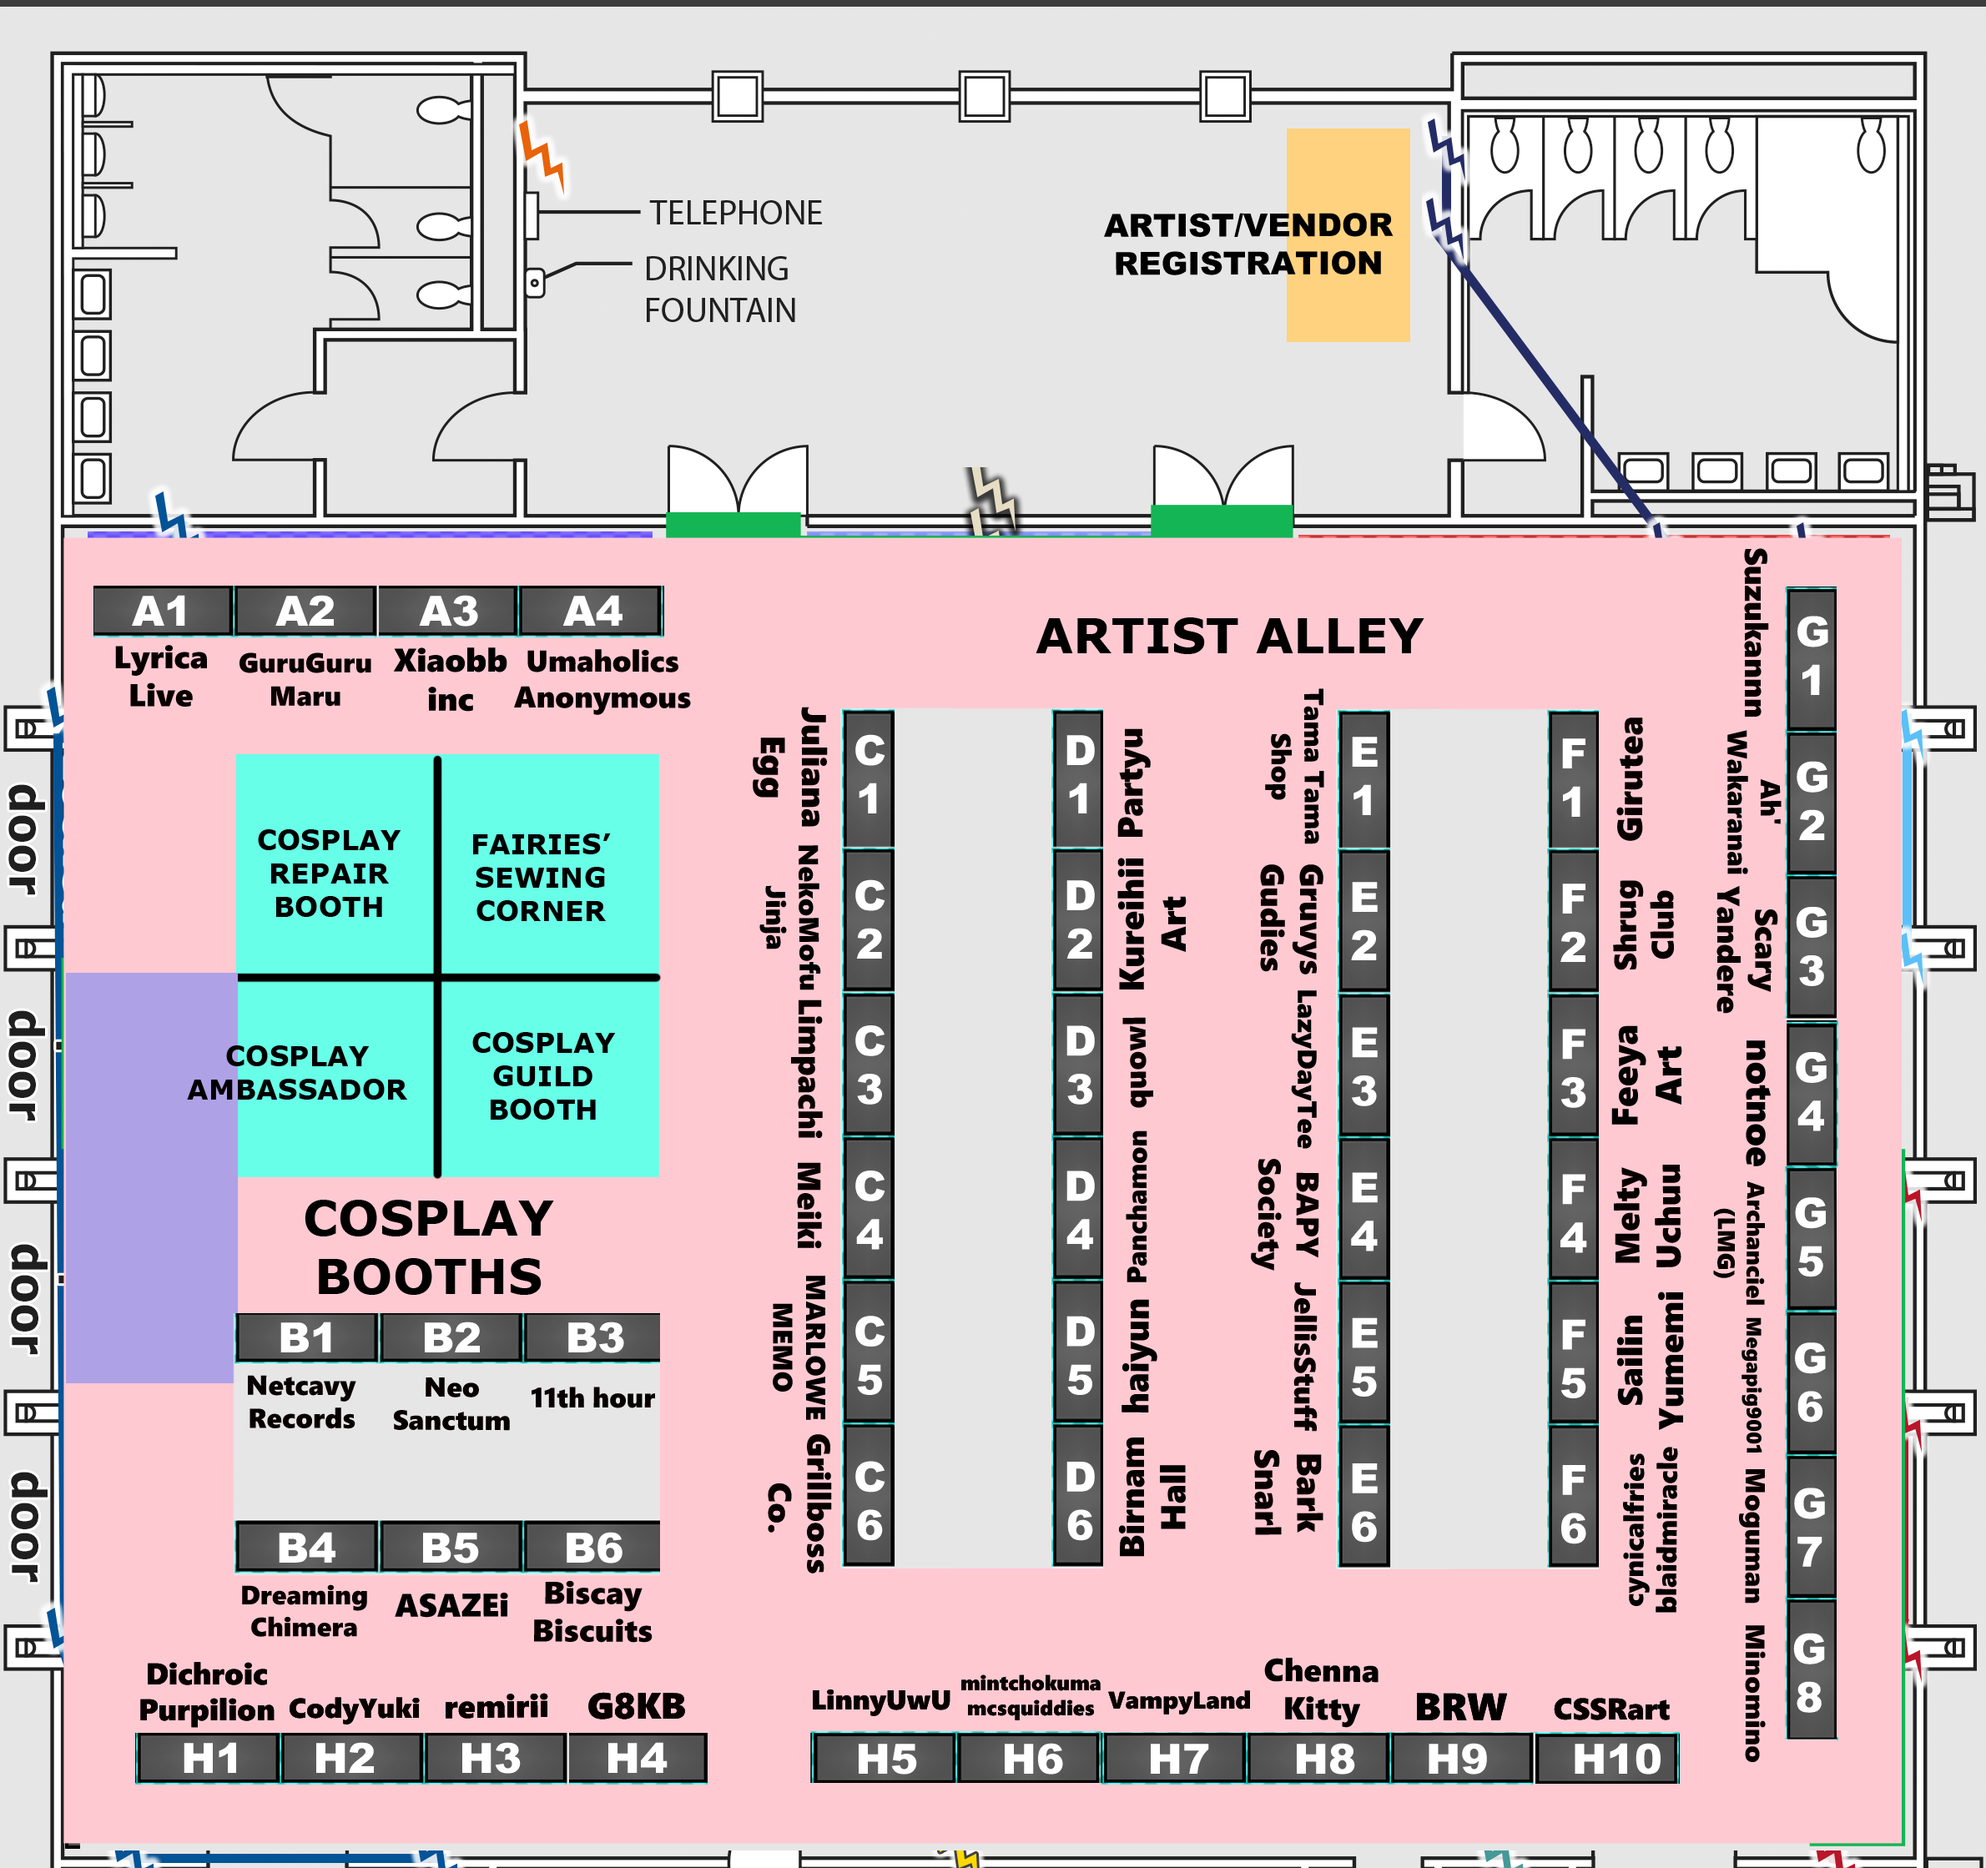
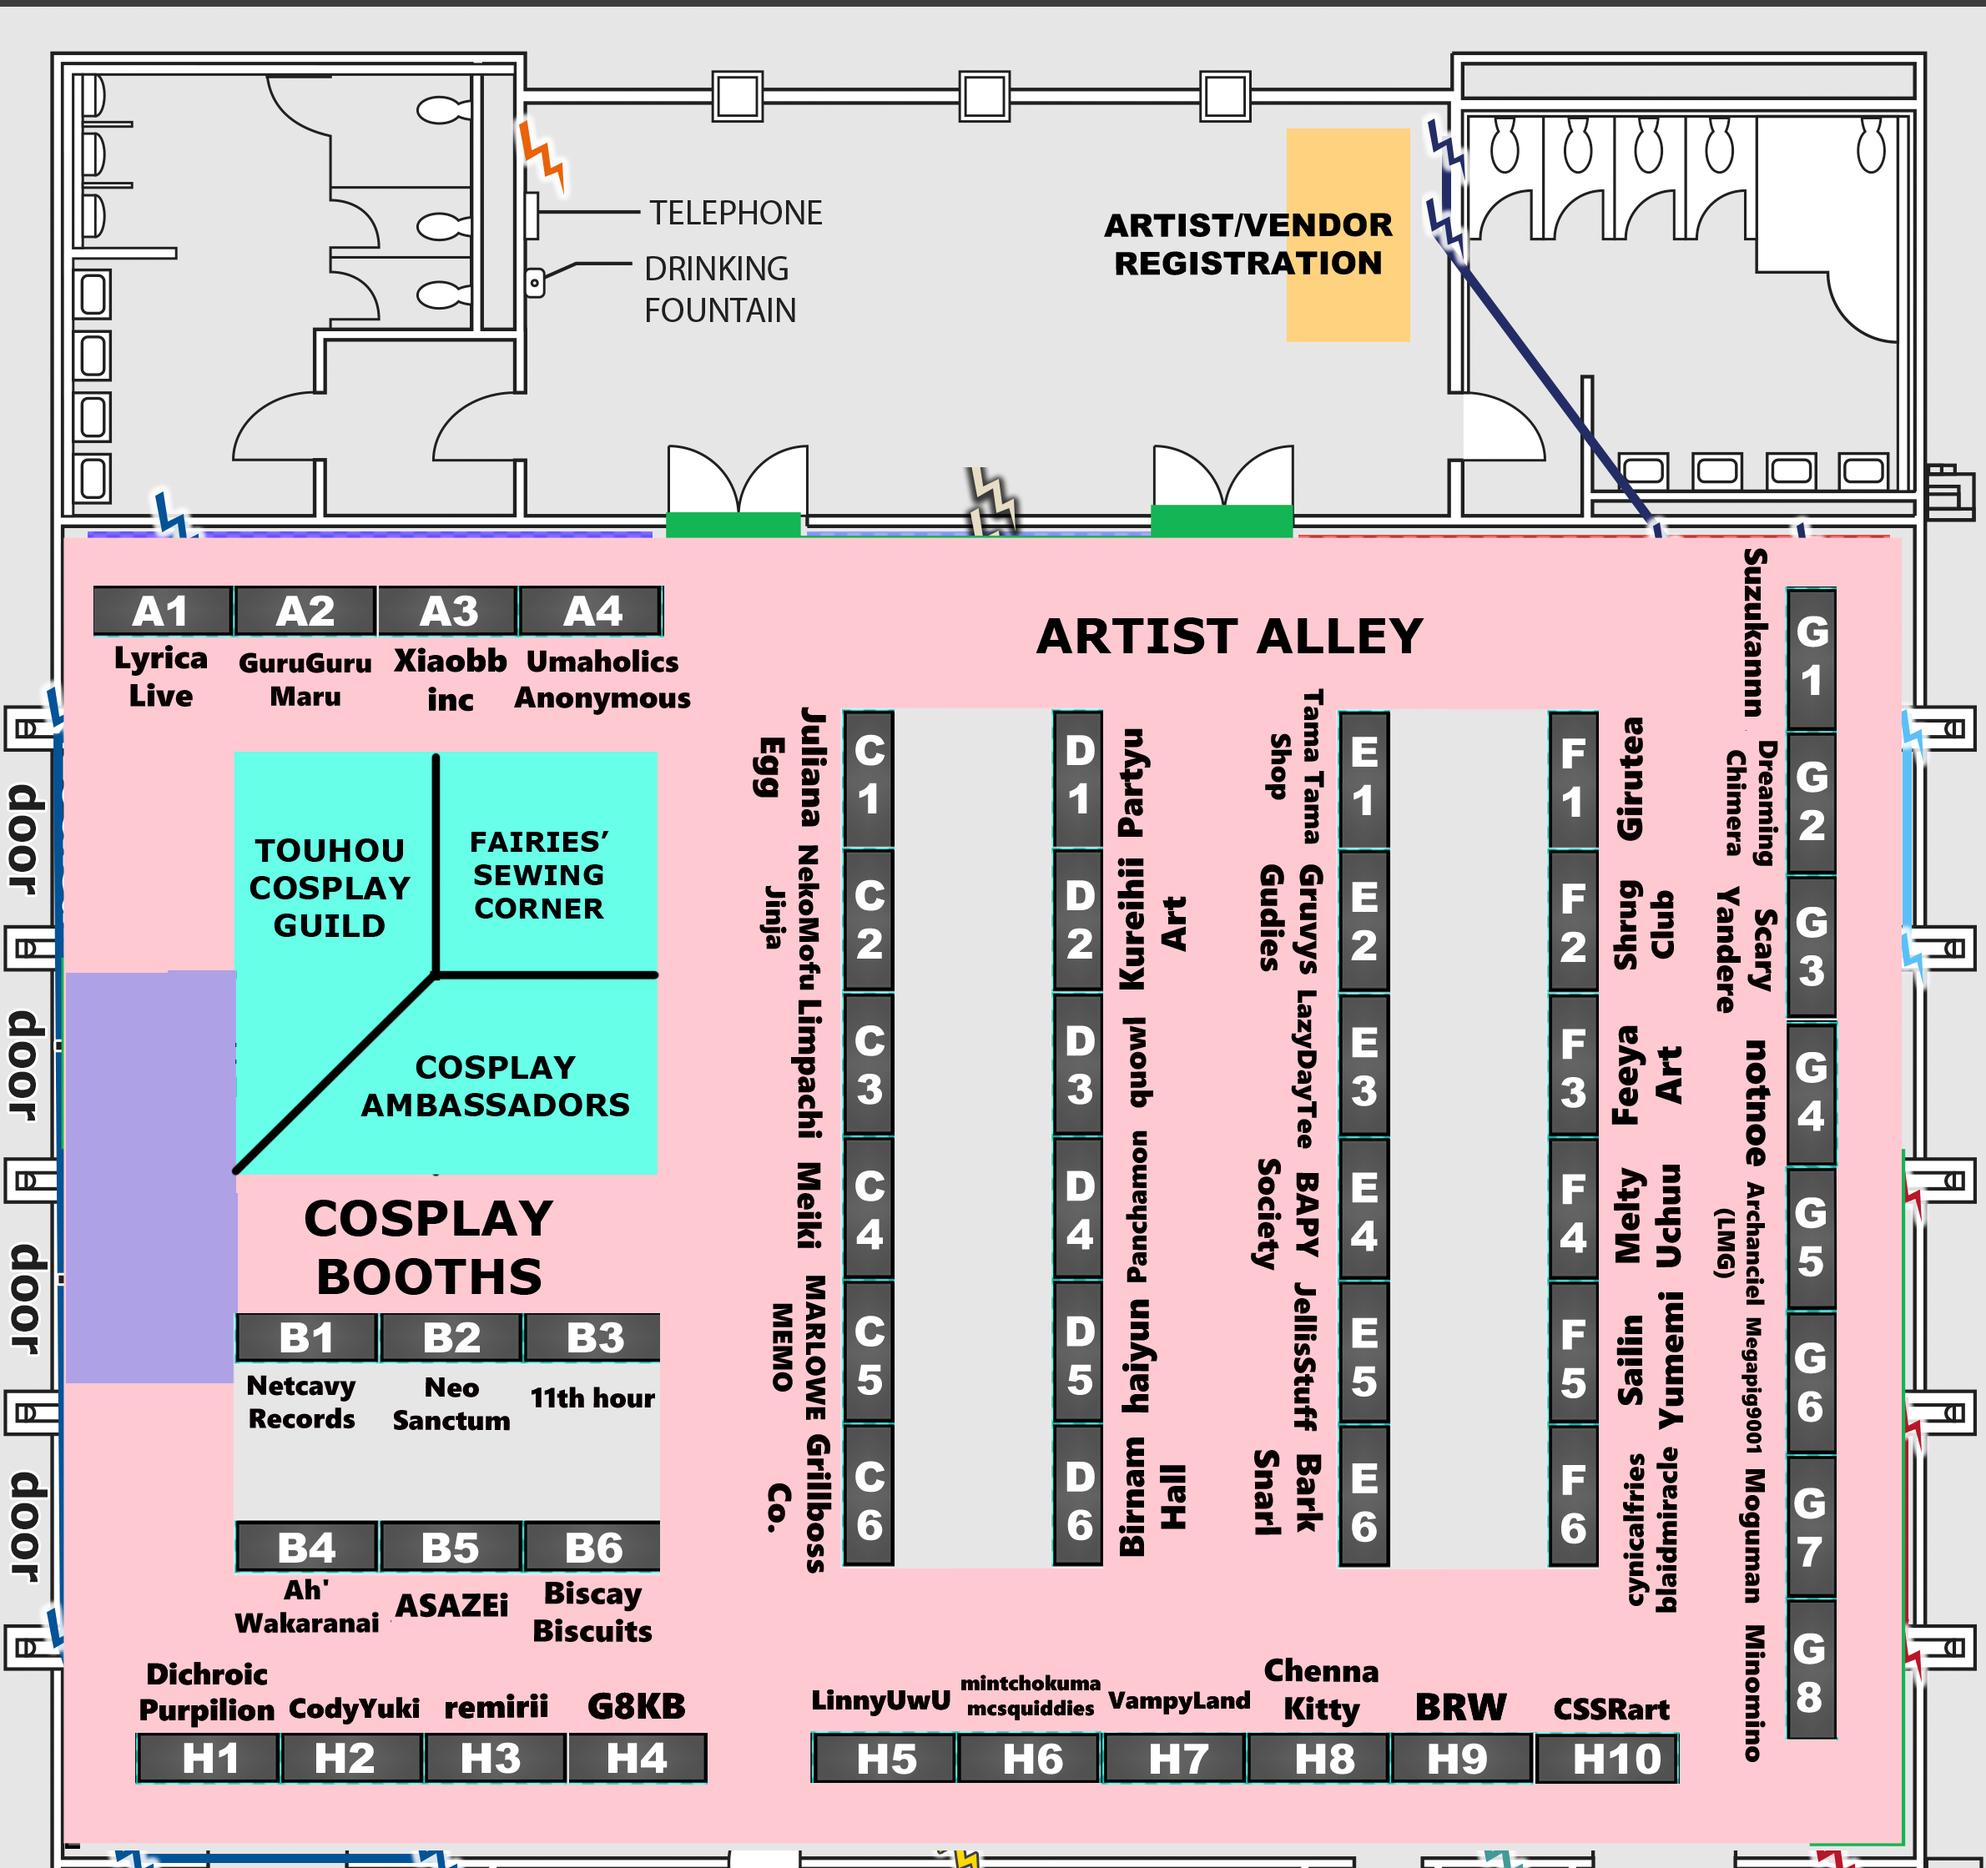
#244

Changed region(s): [[0.0933, 0.4006, 0.3109, 0.6472], [0.1244, 0.8321, 0.1866, 0.8937], [0.8706, 0.3698, 0.9017, 0.4623]]

diff --git a/src/menupages/ArtistVendors.tsx b/src/menupages/ArtistVendors.tsx
@@ -114,18 +114,16 @@ let artistlist = [
 {"name": "Netcavy Records", "image": netcavy, "location": "Booth B1", "website": "https://netcavy.net/portfolio", "description": ""},
 {"name": "Neo Sanctum", "image": neosanctum, "location": "Booth B2", "website": "https://x.com/NSanctum", "description": ""},
 {"name": "11th hour", "image": crescentia, "location": "Booth B3", "website": "https://crescentia.bandcamp.com/album/touhou-orchestral-suite-grand-fantasy", "description": ""},
-{"name": "Dreaming Chimera", "image": dreamingchimera, "location": "Booth B4", "website": "https://dreamingchimera.carrd.co/", "description": ""},
+// fix
+{"name": <>Ah'Wakara&shy;nai</>, "image": ahwakanarai, "location": "Booth B4", "website": "https://x.com/SWatanabe_yo", "description": ""},
+
 {"name": "ASAZEi", "image": asazei, "location": "Booth B5", "website": "https://x.com/ASAZEi_art", "description": ""},
 {"name": <>Biscay&shy;Biscuits</>, "image": biscaybiscuits, "location": "Booth B6", "website": "https://www.instagram.com/themoondruid?igsh=NGVhN2U2NjQ0Yg==", "description": ""},
 {"name": "Juliana Egg", "image": julianaegg, "location": "Booth C1", "website": "instagram.com/juliana_egg", "description": ""},
-
 {"name": "NekoMofu Jinja", "image": nekomofu, "location": "Booth C2", "website": "https://www.instagram.com/schemanineko/", "description": ""},
-
 {"name": "limpachi", "image": limpachu, "location": "Booth C3", "website": "https://twitter.com/limpachu", "description": ""},
 {"name": <>Meiki</>, "image": meiki, "location": "Booth C4", "website": "https://sirmasterknight.carrd.co/", "description": ""},
-
 {"name": <>MARLO&shy;WEMEMO</>, "image": MARLOWEMEMO, "location": "Booth C5", "website": "https://www.instagram.com/marlowememo/", "description": ""},
-
 {"name": "Eggu (Grillboss Co.)", "image": eggu, "location": "Booth C6", "website": "https://egguv.carrd.co/", "description": ""},
 {"name": "Okamijy (Grillboss Co.)", "image": okamijy, "location": "Booth C6", "website": "https://okamijy.carrd.co/", "description": ""},
 {"name": "Partyu", "image": partyu, "location": "Booth D1", "website": "https://partyu.art", "description": ""},
@@ -148,7 +146,7 @@ let artistlist = [
 {"name": "cynicalfries", "image": cynicalfries, "location": "Booth F6", "website": "https://www.instagram.com/cynicalfries/?utm_source=qr", "description": ""},
 {"name": "blaidmiracle", "image": blaidmiracle, "location": "Booth F6", "website": "https://www.pixiv.net/en/users/97844354/artworks", "description": ""},
 {"name": "Suzukannn", "image": suzukann, "location": "Booth G1", "website": "https://x.com/suzukannn", "description": ""},
-{"name": <>Ah'Wakara&shy;nai</>, "image": ahwakanarai, "location": "Booth G2", "website": "https://x.com/SWatanabe_yo", "description": ""},
+{"name": "Dreaming Chimera", "image": dreamingchimera, "location": "Booth G2", "website": "https://dreamingchimera.carrd.co/", "description": ""},
 {"name": "ScaryYandere", "image": scaryyandere, "location": "Booth G3", "website": "https://x.com/ScaryYandere", "description": ""},
 {"name": "notnoe", "image": nono, "location": "Booth G4", "website": "https://x.com/notnoe_", "description": ""},
 {"name": "Archanciel (LMG)", "image": leminigensokyo, "location": "Booth G5", "website": "https://www.facebook.com/LeMiniGensokyo/", "description": ""},
